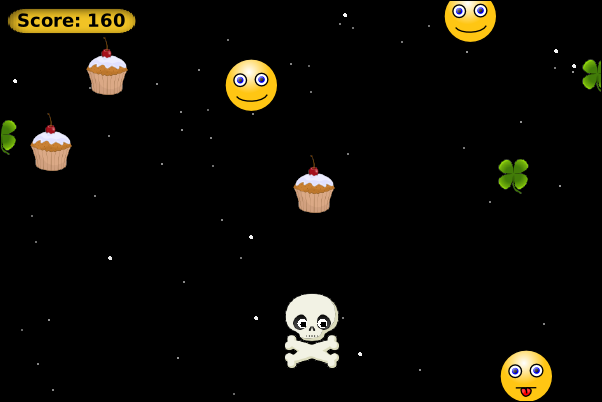
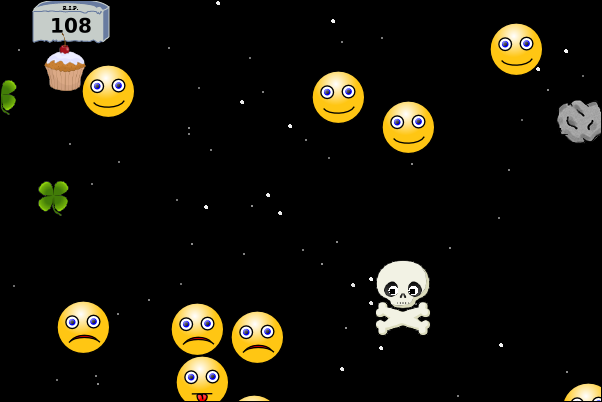
Added screenshot of GameOver screen

diff --git a/README.md b/README.md
@@ -2,4 +2,13 @@
 A simple avoider game created with Greenfoot IDE. The idea and base code was taken from the book "Creative Greenfoot".
 This is a game complete with an introduction screen, game over screen, a score, mouse input, and sound.
 
+I've updated the code to new Greenfoot API (version 3.6.1). 
+
+## Main Game screen
+
 ![Screenshot](Screenshot.png)
+
+## Game Over screen
+
+![Game Over](GameOver.png)
+
